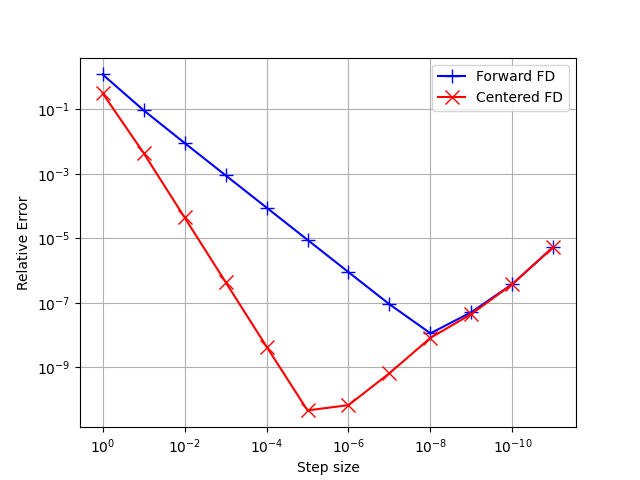
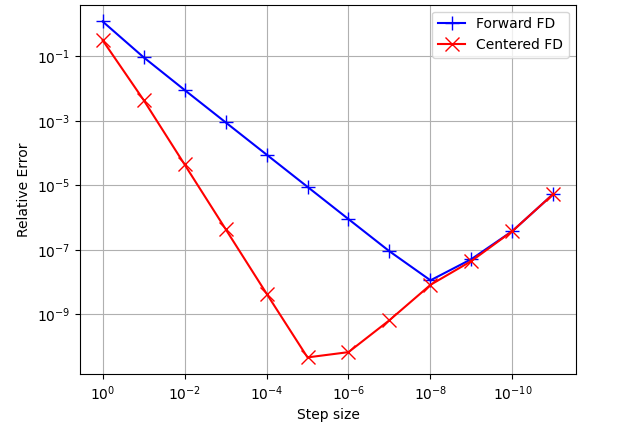
cropped pictures

diff --git a/chapters/bidis.tex b/chapters/bidis.tex
@@ -114,18 +114,18 @@
 
 \begin{frame}
     \frametitle{Computation a cannonical case - RCS of a sphere}
-
+    Validated with less than $5\%$ of error.
     \begin{figure}[htb]
 		\centering
 		\captionsetup[subfigure]{justification=centering}
 		\begin{subfigure}[c]{0.49\textwidth}
-			\includegraphics[width=1.4\textwidth,center]{images/bidis/RCS-sphere-bearing.pdf}
+			\includegraphics[trim=0 0 0 2.5cm, clip, width=1.4\textwidth, height=.7\textheight,center, keepaspectratio]{images/bidis/RCS-sphere-bearing.pdf}
 			\caption*{RCS funtion of the bearing angle.\newline$f = 5\unit{\giga\hertz}$}
 			\label{fig:RCS-sphere-bearing}
 		\end{subfigure}
 		\begin{subfigure}[c]{0.49\textwidth}
 			\centering
-			\includegraphics[width=1.4\textwidth,center]{images/bidis/RCS-sphere-frq.pdf}
+			\includegraphics[trim=0 0 0 2.5cm, clip,width=1.4\textwidth,height=.7\textheight,center, keepaspectratio]{images/bidis/RCS-sphere-frq.pdf}
 			\caption*{Dimensionless RCS function of the radius-to-wavelength ratio.}
 			\label{fig:RCS-sphere-freq}
 		\end{subfigure}
@@ -136,7 +136,7 @@
 
 \begin{frame}
     \frametitle{Comparison to BEM}
-
+    \captionsetup{justification=centering}
     \begin{figure}[htb]
 		\centering
 		\includegraphics[width=.75\textwidth]{images/bidis/comp_BEM_PO.png}
@@ -184,11 +184,12 @@
 \end{frame}
 \begin{frame}
     \frametitle{Gradient validation -- Comparison to finite differences}
+    The gradient is validated.
     \captionsetup{justification=centering}
     \begin{figure}[htb]
         \centering
         % \includegraphics[trim=20mm 0mm 40mm 25mm,clip,height=.75\textheight]{images/bidis/grad-13var.pdf}
-        \includegraphics[width=\textwidth, height=.75\textheight, keepaspectratio]{images/bidis/valid_grad_po.png}
+        \includegraphics[width=\textwidth, height=.7\textheight, keepaspectratio]{images/bidis/valid_grad_po.png}
         \caption*{Error between the exact gradient of the stealth cost function and the gradient computed by forward ({\color{blue} in blue}) and centered ({\color{red} in red}) finite difference function of the FD step size ($\epsilon$).}
         \label{fig:formag-po}
     \end{figure}
